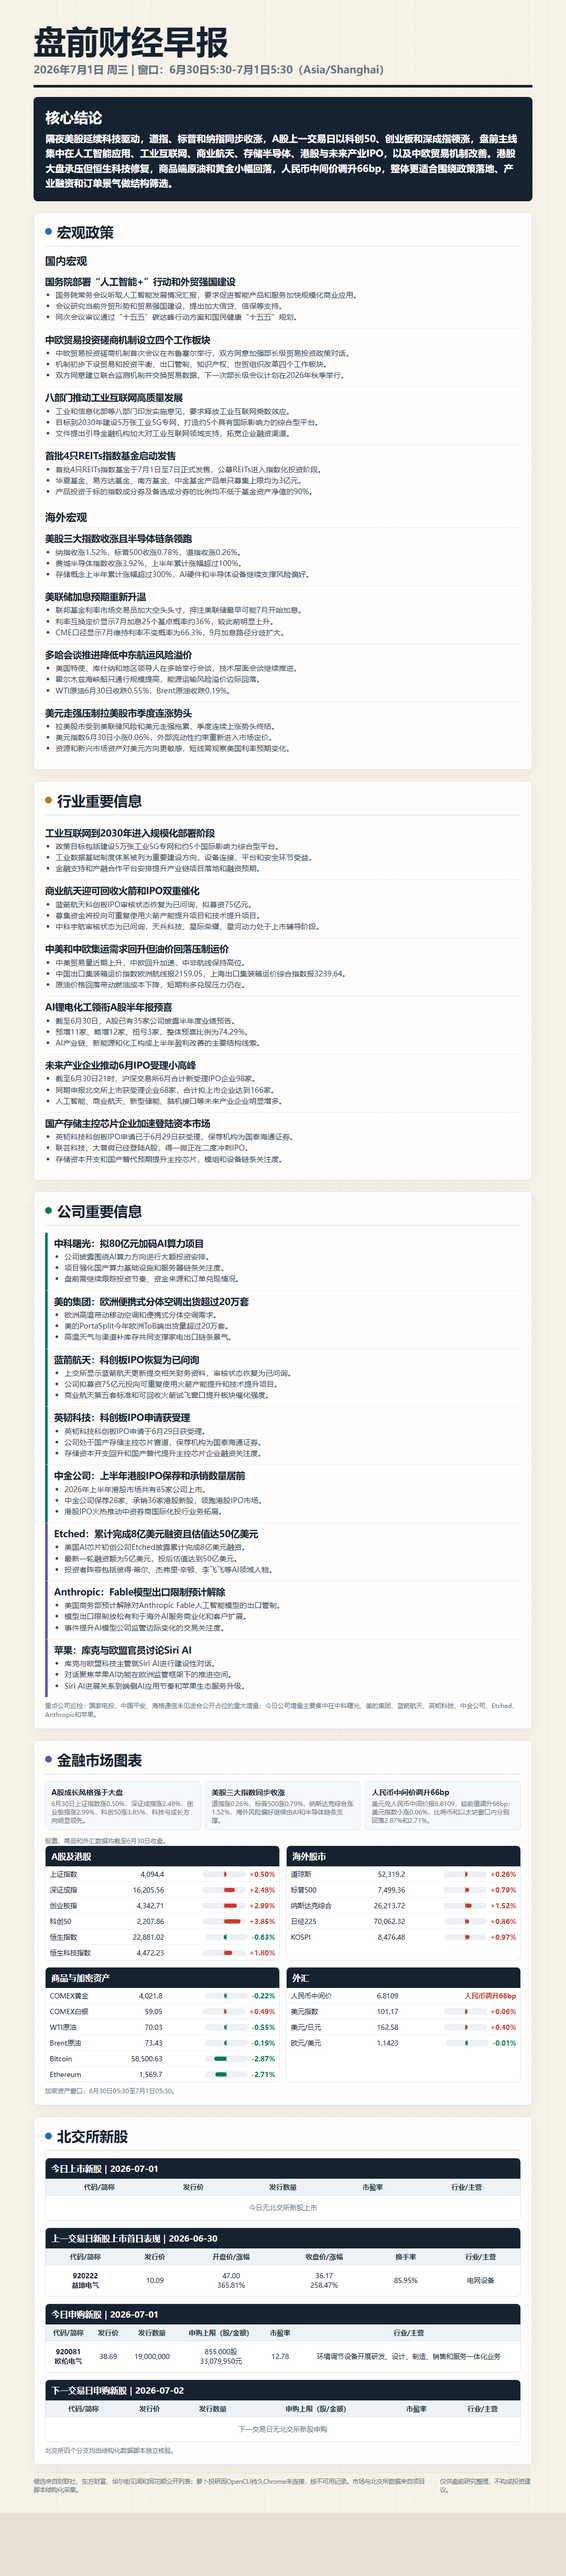
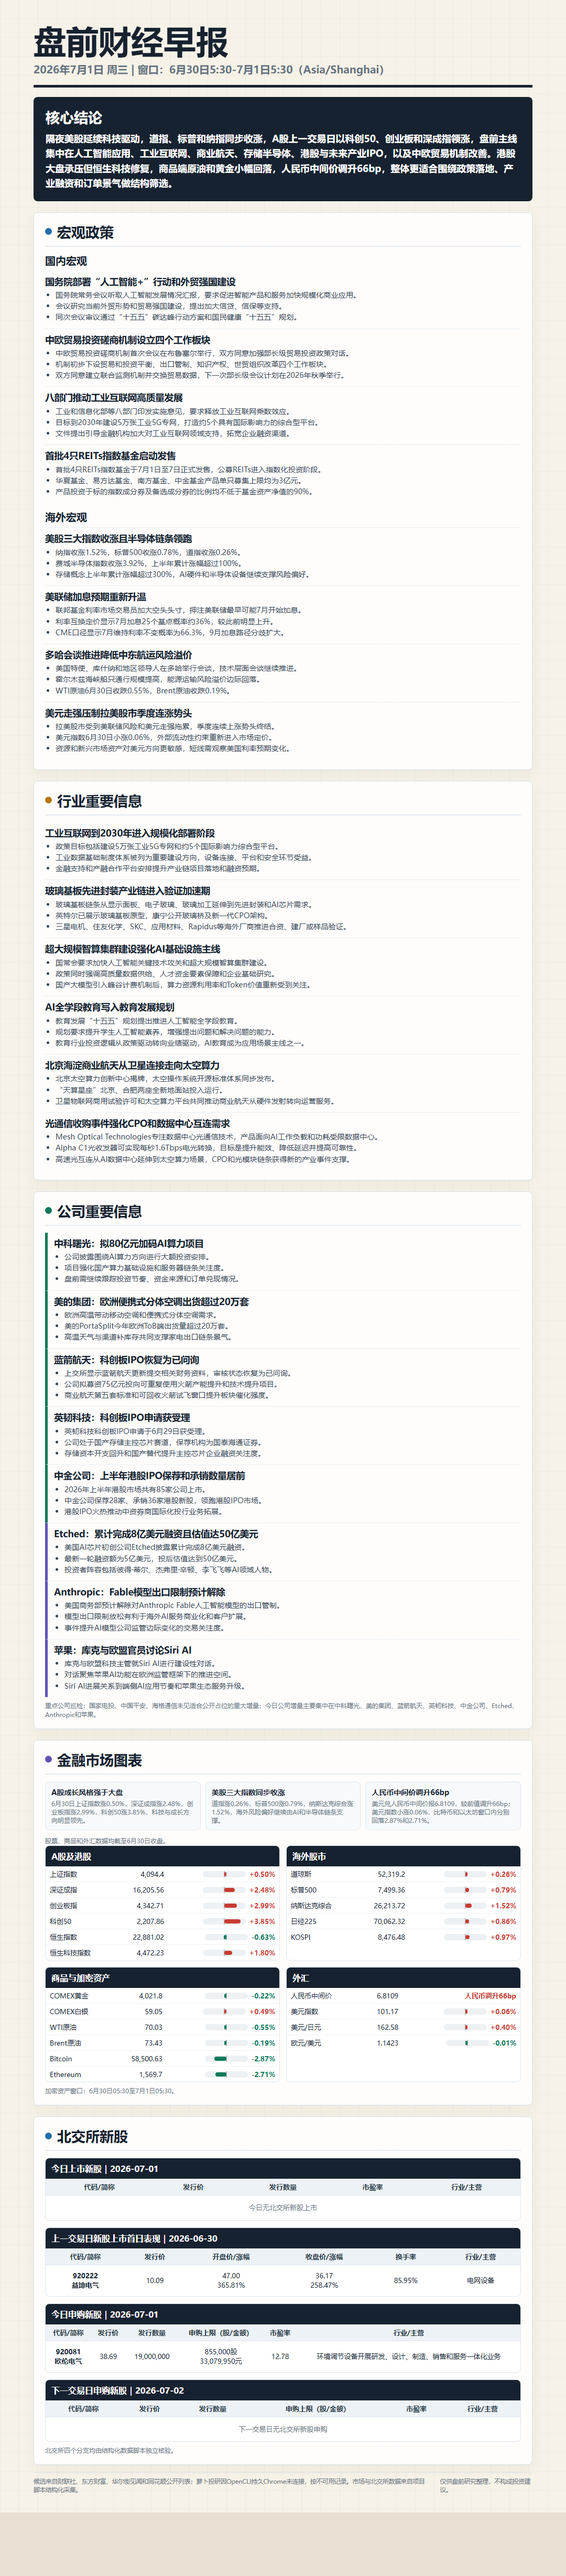
Correct 2026-07-01 morning brief

Changed region(s): [[0.0917, 0.3424, 0.6111, 0.4669], [0.5194, 0.3424, 0.55, 0.3736]]

diff --git a/2026-07-01/report.html b/2026-07-01/report.html
@@ -63,24 +63,24 @@
       <ul><li>政策目标包括建设5万张工业5G专网和约5个国际影响力综合型平台。</li><li>工业数据基础制度体系被列为重要建设方向，设备连接、平台和安全环节受益。</li><li>金融支持和产融合作平台安排提升产业链项目落地和融资预期。</li></ul>
     </article>
     <article class="item ">
-      <h4>商业航天迎可回收火箭和IPO双重催化</h4>
-      <ul><li>蓝箭航天科创板IPO审核状态恢复为已问询，拟募资75亿元。</li><li>募集资金将投向可重复使用火箭产能提升项目和技术提升项目。</li><li>中科宇航审核状态为已问询，天兵科技、星际荣耀、星河动力处于上市辅导阶段。</li></ul>
+      <h4>玻璃基板先进封装产业链进入验证加速期</h4>
+      <ul><li>玻璃基板链条从显示面板、电子玻璃、玻璃加工延伸到先进封装和AI芯片需求。</li><li>英特尔已展示玻璃基板原型，康宁公开玻璃桥及新一代CPO架构。</li><li>三星电机、住友化学、SKC、应用材料、Rapidus等海外厂商推进合资、建厂或样品验证。</li></ul>
     </article>
     <article class="item ">
-      <h4>中美和中欧集运需求回升但油价回落压制运价</h4>
-      <ul><li>中美贸易量近期上升，中欧回升加速，中非航线保持高位。</li><li>中国出口集装箱运价指数欧洲航线报2159.05，上海出口集装箱运价综合指数报3239.64。</li><li>原油价格回落带动燃油成本下降，短期利多兑现压力仍在。</li></ul>
+      <h4>超大规模智算集群建设强化AI基础设施主线</h4>
+      <ul><li>国常会要求加快人工智能关键技术攻关和超大规模智算集群建设。</li><li>政策同时强调高质量数据供给、人才资金要素保障和企业基础研究。</li><li>国产大模型引入峰谷计费机制后，算力资源利用率和Token价值重新受到关注。</li></ul>
     </article>
     <article class="item ">
-      <h4>AI锂电化工领衔A股半年报预喜</h4>
-      <ul><li>截至6月30日，A股已有35家公司披露半年度业绩预告。</li><li>预增11家、略增12家、扭亏3家，整体预喜比例为74.29%。</li><li>AI产业链、新能源和化工构成上半年盈利改善的主要结构线索。</li></ul>
+      <h4>AI全学段教育写入教育发展规划</h4>
+      <ul><li>教育发展“十五五”规划提出推进人工智能全学段教育。</li><li>规划要求提升学生人工智能素养，增强提出问题和解决问题的能力。</li><li>教育行业投资逻辑从政策驱动转向业绩驱动，AI教育成为应用场景主线之一。</li></ul>
     </article>
     <article class="item ">
-      <h4>未来产业企业推动6月IPO受理小高峰</h4>
-      <ul><li>截至6月30日21时，沪深交易所6月合计新受理IPO企业98家。</li><li>同期申报北交所上市获受理企业68家，合计拟上市企业达到166家。</li><li>人工智能、商业航天、新型储能、脑机接口等未来产业企业明显增多。</li></ul>
+      <h4>北京海淀商业航天从卫星连接走向太空算力</h4>
+      <ul><li>北京太空算力创新中心揭牌，太空操作系统开源标准体系同步发布。</li><li>“天算星座”北京、合肥两座全新地面站投入运行。</li><li>卫星物联网商用试验许可和太空算力平台共同推动商业航天从硬件发射转向运营服务。</li></ul>
     </article>
     <article class="item ">
-      <h4>国产存储主控芯片企业加速登陆资本市场</h4>
-      <ul><li>英韧科技科创板IPO申请已于6月29日获受理，保荐机构为国泰海通证券。</li><li>联芸科技、大普微已经登陆A股，得一微正在二度冲刺IPO。</li><li>存储资本开支和国产替代预期提升主控芯片、模组和设备链条关注度。</li></ul>
+      <h4>光通信收购事件强化CPO和数据中心互连需求</h4>
+      <ul><li>Mesh Optical Technologies专注数据中心光通信技术，产品面向AI工作负载和功耗受限数据中心。</li><li>Alpha C1光收发器可实现每秒1.6Tbps电光转换，目标是提升能效、降低延迟并提高可靠性。</li><li>高速光互连从AI数据中心延伸到太空算力场景，CPO和光模块链条获得新的产业事件支撑。</li></ul>
     </article></section>
   <section class="section"><h2 class="section-title"><span class="dot" style="background:var(--green)"></span>公司重要信息</h2>
     <article class="item company-line">
